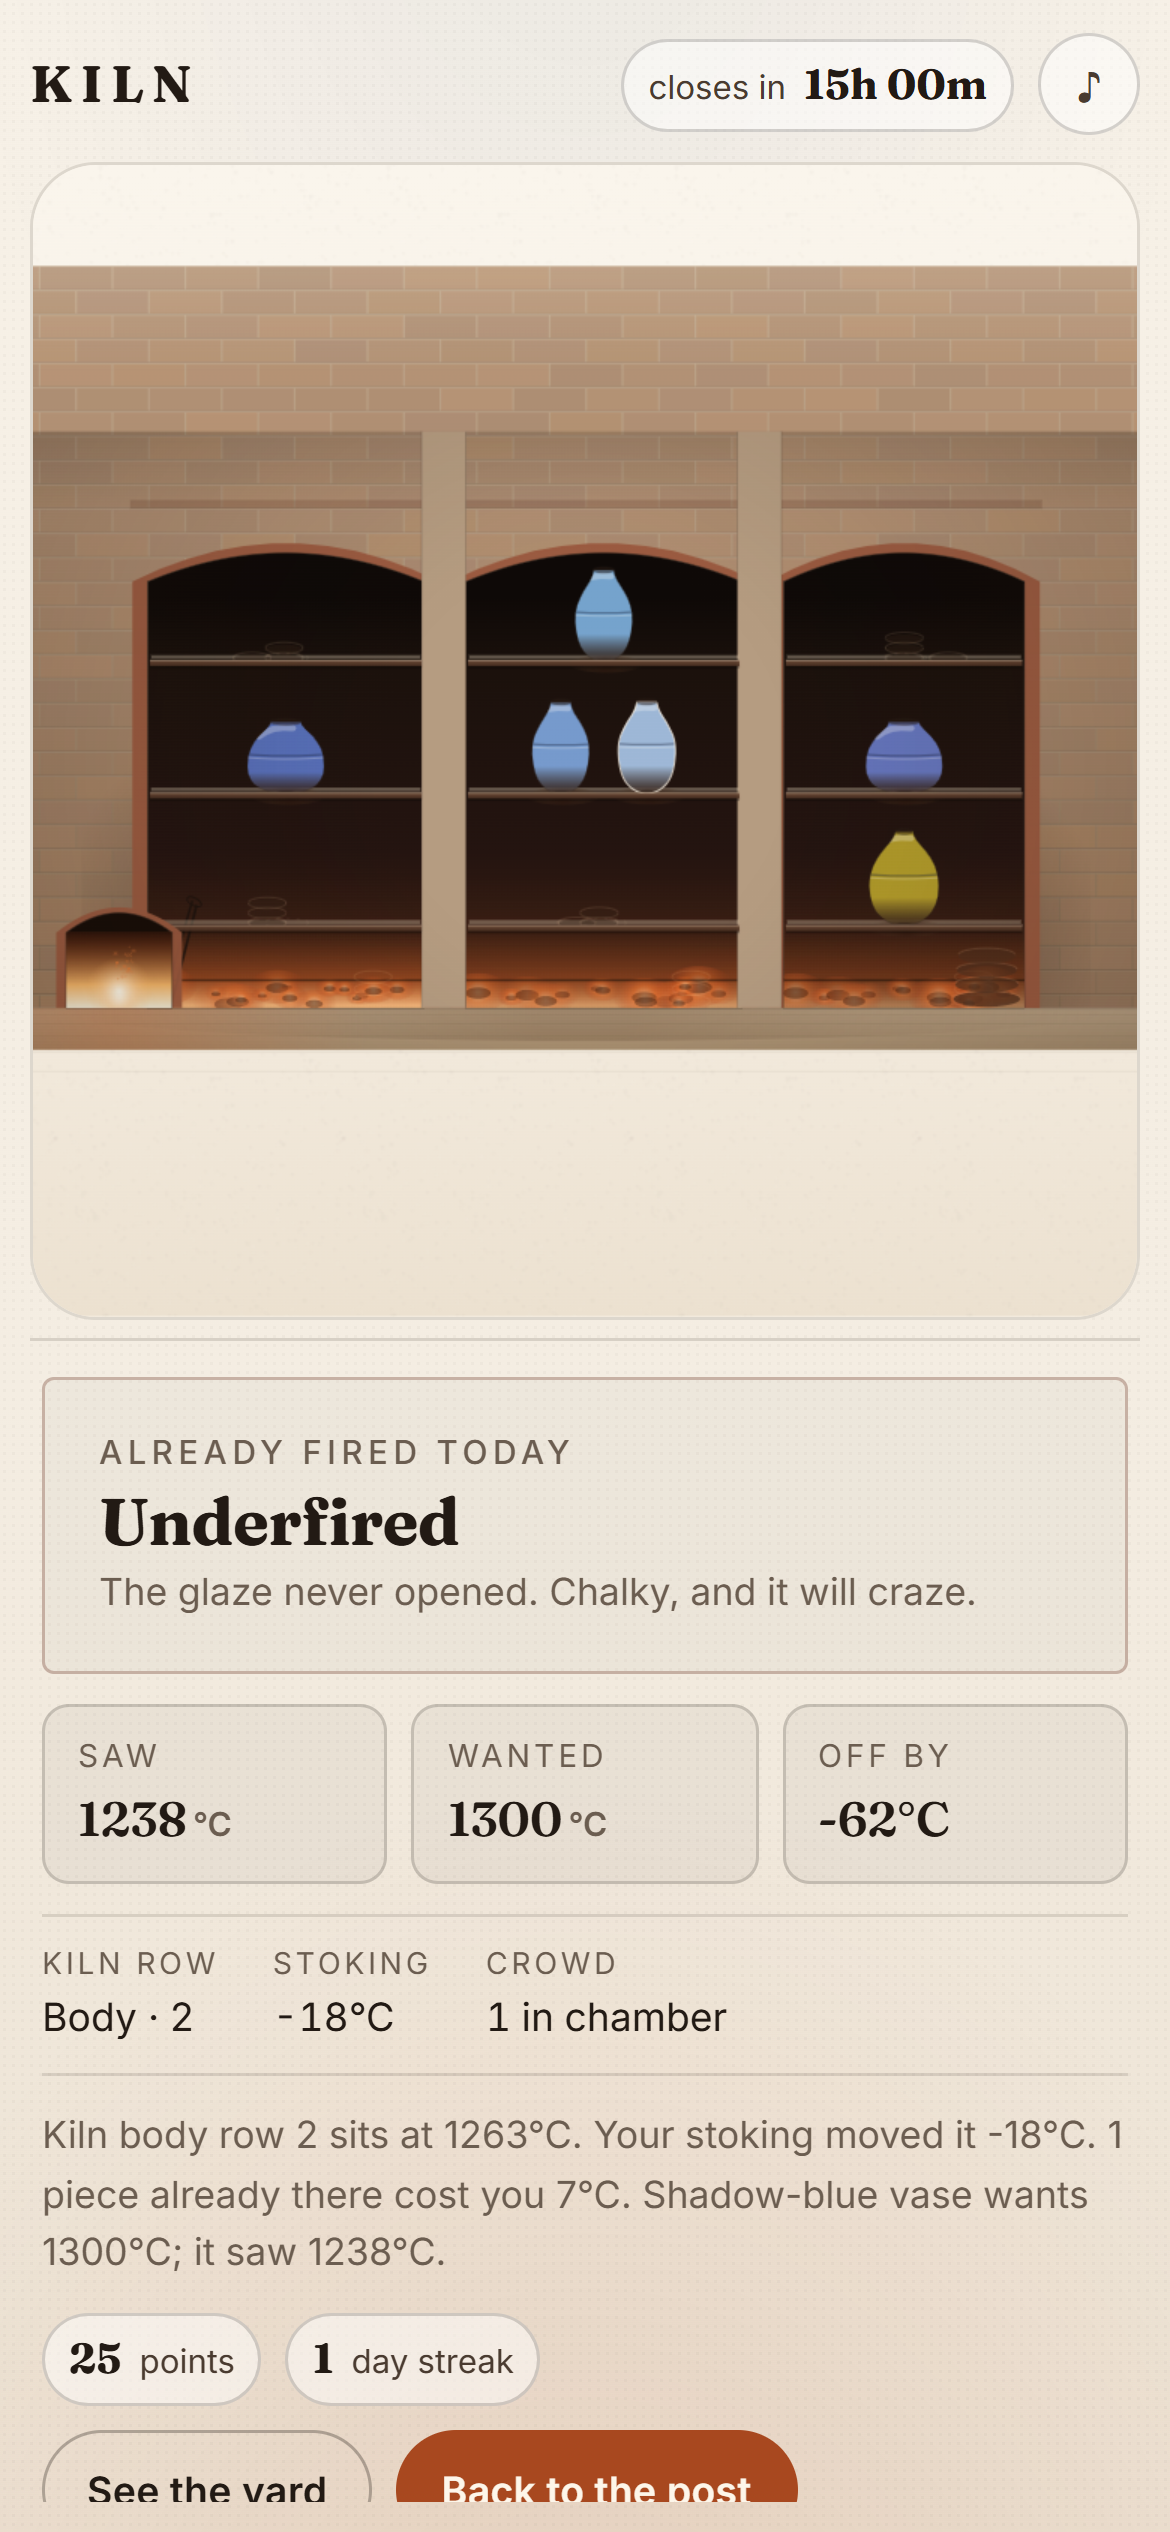
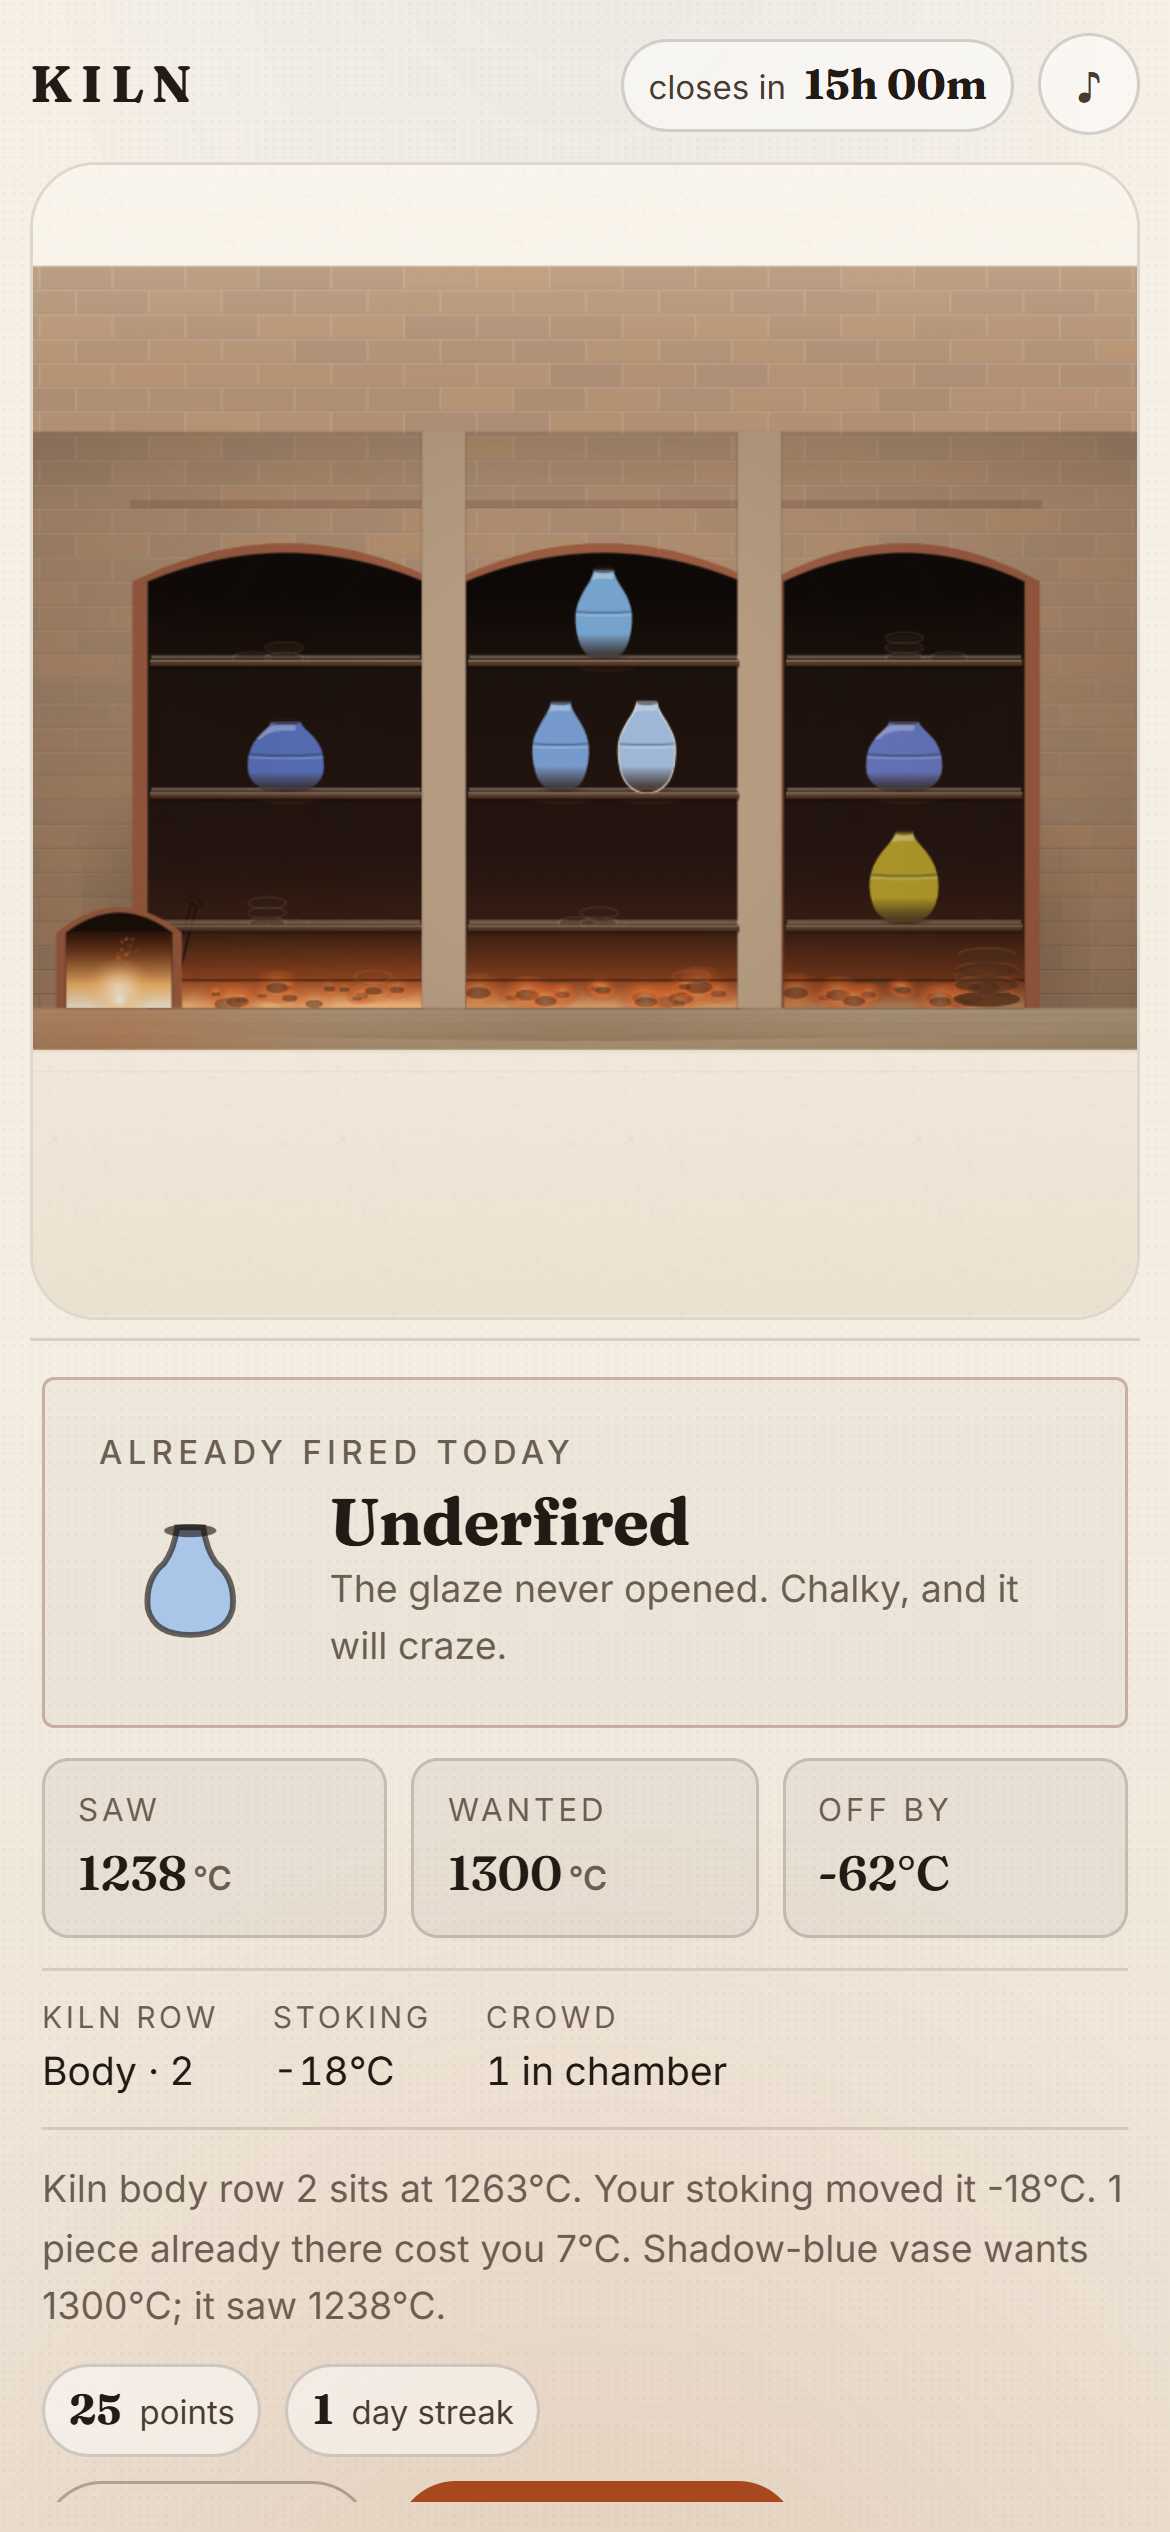
test(gate d): rank the 3:2 cover, not a cropped portrait card
The blind set was cropping our 320x512 feed card into a 3:2 frame, which cut the
card's own left edge — one judge called it out as clipped text. Pad instead of
crop, and use the 1500x1000 gallery cover as our entry.

Changed region(s): [[0.0308, 0.5928, 0.9846, 0.9984], [0.6462, 0.7488, 0.6769, 0.78]]

diff --git a/src/client/splash.tsx b/src/client/splash.tsx
@@ -24,28 +24,39 @@ function Poster(): React.ReactElement {
       <svg viewBox="0 0 640 500" width="100%" height="100%" preserveAspectRatio="xMidYMid slice">
         <rect width="640" height="500" fill="#bda58b" />
 
-        {/* the arch fills most of the frame: we are standing right at the mouth */}
-        <path d="M-40 430 L-40 120 Q170 40 470 110 L470 430 Z" fill="#9a5820" />
-        <path d="M-16 430 L-16 148 Q170 76 440 138 L440 430 Z" fill="#120a06" />
-        <path d="M-16 336 Q170 300 440 350 L440 430 L-16 430 Z" fill="#a8451c" />
-        <path d="M-16 376 Q170 344 440 388 L440 430 L-16 430 Z" fill="#e0662a" />
-        <path d="M-16 402 Q170 376 440 412 L440 430 L-16 430 Z" fill="#ffce94" />
+        {/* one whole arch, centred, with the piece standing inside its mouth */}
+        <path d="M56 402 L56 208 Q320 92 584 208 L584 402 Z" fill="#9a5820" />
+        <path d="M84 402 L84 232 Q320 128 556 232 L556 402 Z" fill="#1d1109" />
+        <path d="M84 402 L84 232 Q320 128 556 232 L556 402 Z" fill="none" stroke="#0d0805" strokeWidth="2" />
 
-        {/* the yard floor, and the piece standing on it */}
-        <rect x="-10" y="430" width="660" height="80" fill="#a58c6d" />
-        <rect x="-10" y="426" width="660" height="4" fill="#8c7358" opacity="0.6" />
+        {/* fire floor inside the mouth */}
+        <path d="M84 402 L84 372 Q320 340 556 372 L556 402 Z" fill="#7a2f12" />
+        <path d="M84 402 L84 384 Q320 356 556 384 L556 402 Z" fill="#c9561f" />
+        <path d="M84 402 L84 394 Q320 372 556 394 L556 402 Z" fill="#ffc37a" />
 
-        <g transform="translate(492 430) scale(1.5)">
-          <ellipse cx="6" cy="2" rx="40" ry="7" fill="#3a2418" opacity="0.35" />
+        {/* the piece, centre stage, lit from the fire under it */}
+        <g transform="translate(320 398) scale(1.5)">
+          <ellipse cx="0" cy="2" rx="42" ry="8" fill="#1a0d06" opacity="0.55" />
           <path
             d="M-12 -58 C-14 -50 -31 -46 -31 -22 C-31 -5 -15 0 0 0 C15 0 31 -5 31 -22 C31 -46 14 -50 12 -58 Z"
             fill="#2f5aa8"
-            stroke="#1a120c"
-            strokeWidth="1.6"
+            stroke="#0f0a07"
+            strokeWidth="1.4"
           />
-          <path d="M-24 -34 C-16 -42 -4 -46 6 -46" stroke="#ffffff" strokeOpacity="0.45" strokeWidth="5" fill="none" />
-          <ellipse cx="0" cy="-58" rx="12" ry="3.6" fill="#0b0603" />
-          <ellipse cx="0" cy="-58" rx="12" ry="3.6" fill="none" stroke="#1a120c" strokeWidth="1.6" />
+          <path d="M-24 -34 C-16 -42 -4 -46 6 -46" stroke="#ffffff" strokeOpacity="0.5" strokeWidth="5" fill="none" />
+          <ellipse cx="0" cy="-58" rx="12" ry="3.6" fill="#070402" />
+          <ellipse cx="0" cy="-58" rx="12" ry="3.6" fill="none" stroke="#0f0a07" strokeWidth="1.4" />
+        </g>
+
+        {/* the yard floor */}
+        <rect x="-10" y="402" width="660" height="110" fill="#a58c6d" />
+        <rect x="-10" y="398" width="660" height="4" fill="#8c7358" opacity="0.6" />
+
+        {/* the only verb: a stoke band with the needle in it */}
+        <g transform="translate(212 432)">
+          <rect x="0" y="0" width="216" height="12" rx="6" fill="#5f4b38" opacity="0.5" />
+          <rect x="62" y="0" width="56" height="12" rx="6" fill="#a8451c" />
+          <rect x="128" y="-6" width="4" height="24" fill="#221a14" />
         </g>
       </svg>
     </div>

diff --git a/src/client/game.tsx b/src/client/game.tsx
@@ -566,8 +566,17 @@ function App(): React.ReactElement {
             <div className="result">
               <div className={`stamp grade-${result.grade}`}>
                 <span className="kicker">{result.already ? 'Already fired today' : 'Out of the kiln'}</span>
-                <span className="grade">{GRADE_LABEL[result.grade]}</span>
-                <span className="line">{GRADE_LINE[result.grade]}</span>
+                <div className="stamp-body">
+                  <PieceGlyph
+                    form={(kiln.wares.find((w) => w.name === result.wareName) ?? kiln.wares[0]!).form}
+                    glaze={(kiln.wares.find((w) => w.name === result.wareName) ?? kiln.wares[0]!).glaze}
+                    size={72}
+                  />
+                  <div className="stamp-text">
+                    <span className="grade">{GRADE_LABEL[result.grade]}</span>
+                    <span className="line">{GRADE_LINE[result.grade]}</span>
+                  </div>
+                </div>
               </div>
               <div className="figures">
                 <div className="figure">
@@ -672,6 +681,11 @@ function App(): React.ReactElement {
             <div className="yard-list">
               {(yard?.entries ?? []).map((entry, index) => (
                 <div className="piece-row" key={`${entry.username}-${entry.at}-${index}`}>
+                  <PieceGlyph
+                    form={(kiln.wares.find((w) => w.name === entry.wareName) ?? kiln.wares[0]!).form}
+                    glaze={(kiln.wares.find((w) => w.name === entry.wareName) ?? kiln.wares[0]!).glaze}
+                    size={18}
+                  />
                   <span
                     className="dot"
                     style={{

diff --git a/src/client/index.css b/src/client/index.css
@@ -507,6 +507,18 @@ h3 {
   background: radial-gradient(120% 140% at 0% 0%, rgba(226, 87, 31, 0.10), transparent 60%);
 }
 
+.stamp-body {
+  display: flex;
+  align-items: center;
+  gap: 16px;
+}
+
+.stamp-text {
+  display: flex;
+  flex-direction: column;
+  gap: 2px;
+}
+
 .stamp .grade {
   font-family: var(--display);
   font-size: 27px;
@@ -810,7 +822,19 @@ h3 {
   .figure .v {
     font-size: 16px;
   }
-  .stamp .grade {
+  .stamp-body {
+  display: flex;
+  align-items: center;
+  gap: 16px;
+}
+
+.stamp-text {
+  display: flex;
+  flex-direction: column;
+  gap: 2px;
+}
+
+.stamp .grade {
     font-size: 22px;
   }
   .topbar {

diff --git a/scripts/blind-set.py b/scripts/blind-set.py
@@ -21,7 +21,7 @@ SOURCES = [
     ("tinten", REF / "tinten.png", "TinTen — Best Use of User Contributions, Games with a Hook 2026"),
     ("sketchy", REF / "sketchy-solutions.png", "Sketchy Solutions — Best App with a Hook, Games with a Hook 2026"),
     ("hearthvale", REF / "hearthvale.png", "Hearthvale — Honorable Mention, Games with a Hook 2026"),
-    ("kiln", ROOT / "shots" / "01-card.png", "KILN — our entry (feed card)"),
+    ("kiln", ROOT / "submission" / "cover-1500x1000.png", "KILN — our entry (gallery cover, 1500x1000)"),
 ]
 
 
@@ -29,17 +29,18 @@ def normalise(path: Path) -> Image.Image:
     img = Image.open(path).convert("RGB")
     target = W / H
     ratio = img.width / img.height
+    # Fit, never crop: cropping a card cuts its own type, and that would make the
+    # ranking measure our margin instead of our design.
     if ratio > target:
-        # too wide: crop the sides
         new_w = int(img.height * target)
-        left = (img.width - new_w) // 2
-        img = img.crop((left, 0, left + new_w, img.height))
+        canvas = Image.new("RGB", (new_w, img.height), (244, 237, 226))
+        canvas.paste(img.resize((new_w, int(img.height * new_w / img.width)), Image.LANCZOS), (0, 0))
+        img = canvas
     elif ratio < target:
-        # too tall: crop top and bottom, keep the top third (most cards put the
-        # subject high)
         new_h = int(img.width / target)
-        top = max(0, int((img.height - new_h) * 0.35))
-        img = img.crop((0, top, img.width, top + new_h))
+        canvas = Image.new("RGB", (img.width, new_h), (244, 237, 226))
+        canvas.paste(img, (0, max(0, (new_h - img.height) // 2)))
+        img = canvas
     return img.resize((W, H), Image.LANCZOS)
 
 

diff --git a/docs/08-GATE-D.md b/docs/08-GATE-D.md
@@ -41,7 +41,28 @@
 1. **卡片重排**：上图下文（说明不再压在画上），标题/说明/倒计时全部移出画外，320×512 下逐字可读。
 2. **构图收紧**：不再是「一间房 + 一个小罐」，改成**紧构图静物**——拱口占满画面上半，一枚罐就立在火前的同一地平线上，留白从 ~55% 降到 ~15%。
 
-第 2 轮：AME-1386（GLM）／AME-1387（GPT），同一批尺子重新洗牌（新的字母）。
+## 第 2 轮结果
+
+| 评委 | 名次（1→6） | KILN | 分数 | 是否过线 |
+| --- | --- | --- | --- | --- |
+| 4（AME-1386，GLM） | A → **F(我们)** → D → C → B → E | **第 2** | 8/10 | ✅ 在 4 件得奖作之上 |
+| 5（AME-1387，GPT） | C → A → D → B → E → **F(我们)** | **第 6** | 3.8/10 | ❌ 垫底 |
+
+GPT 的原话：
+
+> **F：3.8｜最弱点**：巨大黑色窑口吞掉大半画面，器物挤在边缘且文字过小，第一眼像裁切失衡的网页而不是可玩的游戏。
+
+GLM 的原话：
+
+> **F：8｜最强点**：唯一把「每天」写在脸上的（THE KILN A DAY、全场同窑），日更是玩法本身。**最弱点**：太素，像网页海报不像游戏，信息流里可能划过去不停。
+
+两位说的其实是同一件事：**它不是一张「游戏画面」，而是一张「海报」**。第 2 轮据此改的是构图本身，不是配色：
+
+- 拱口**居中且完整**（不再被画框切掉一半），器物**站到拱口正中**、被火光从下打亮（不再挤在边缘）。
+- 画面下半直接画出**投柴条**（本作唯一的输入），让「可以动手」这件事在第一眼就成立。
+- 留白从 ~55% 压到 ~12%。
+
+第 3 轮：AME-1389（GLM）／AME-1390（GPT），同一批尺子第三次洗牌。
 
 **为什么本机抓不到 D、E**：`www.reddit.com` 走代理能通，但 `/r/...` 与 `.json` 都返回
 “Prove your humanity” 人机验证；`i.redd.it` 上的帖子预览图必须带签名。Devpost 的项目页只给

diff --git a/proof/ui/report.md b/proof/ui/report.md
@@ -1,6 +1,6 @@
 # UI measurement
 
-Generated by `node scripts/measure-ui.mjs` on 2026-11-14T06:13:14.189Z.
+Generated by `node scripts/measure-ui.mjs` on 2026-11-14T06:26:28.723Z.
 Measures hygiene only: it cannot tell whether the screen is beautiful, and it is
 not used as a gate.
 
